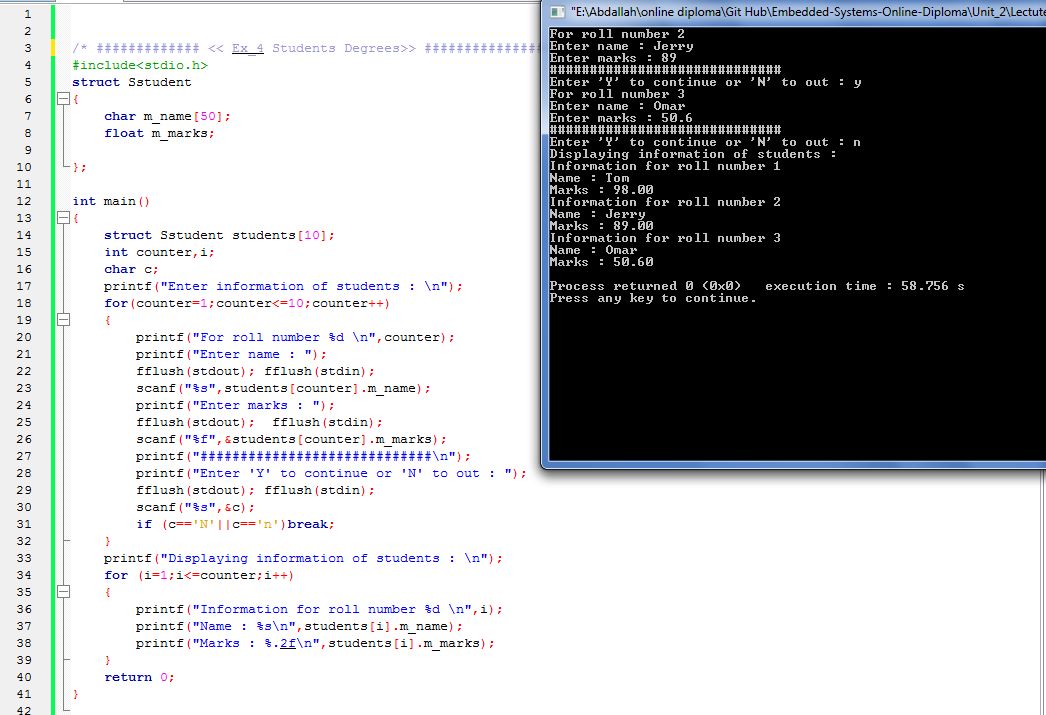
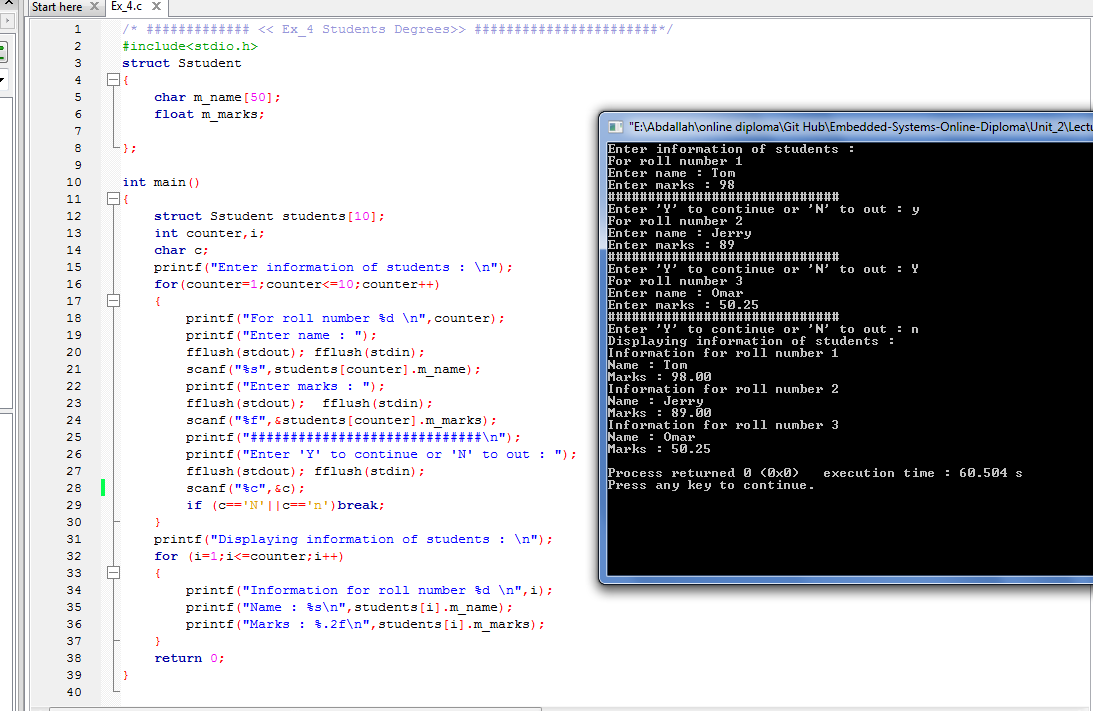
Struct & Enum & Union Assignments

diff --git a/Unit_2/Lectute_6_structures_union_enum/Coods/Ex_4.c b/Unit_2/Lectute_6_structures_union_enum/Coods/Ex_4.c
@@ -25,7 +25,7 @@ int main()
         printf("#############################\n");
         printf("Enter 'Y' to continue or 'N' to out : ");
         fflush(stdout); fflush(stdin);
-        scanf("%s",&c);
+        scanf("%c",&c);
         if (c=='N'||c=='n')break;
     }
     printf("Displaying information of students : \n");
